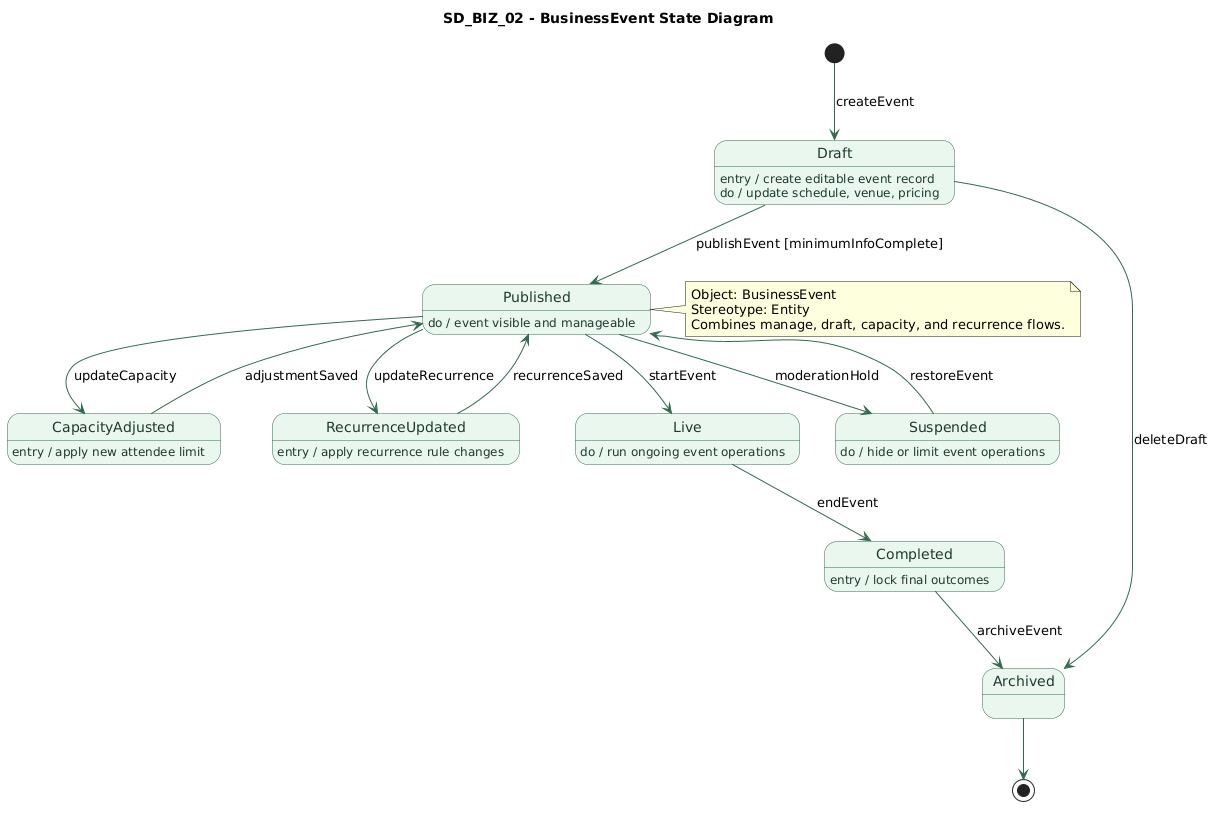
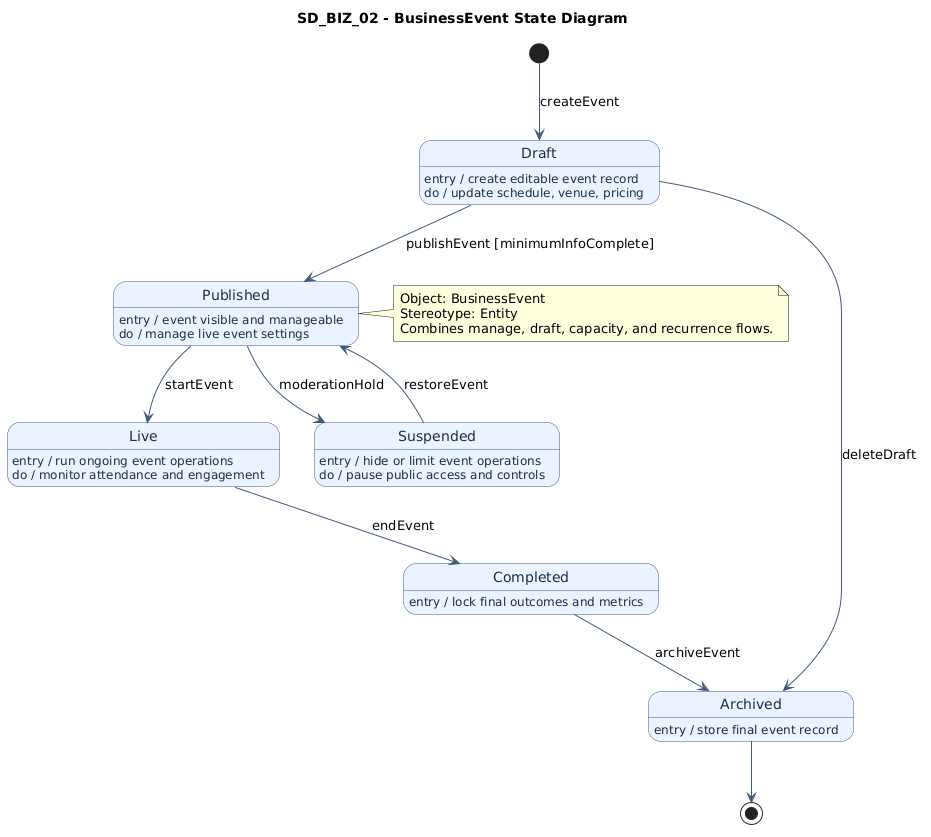
Fixed sequence diagrams of business role

diff --git a/TODO.md b/TODO.md
@@ -1,0 +1,6 @@
+•SD_BIZ_2 remove capacaity and recurrence
+•SD_BIZ_3 shto create
+•SD_GO_6 hosted event plan
+•Rregullo mbaresat me -ing te state diagrams
+•ERD rregullime me ERD tool
+•Hiq numrat nga sequence diags
